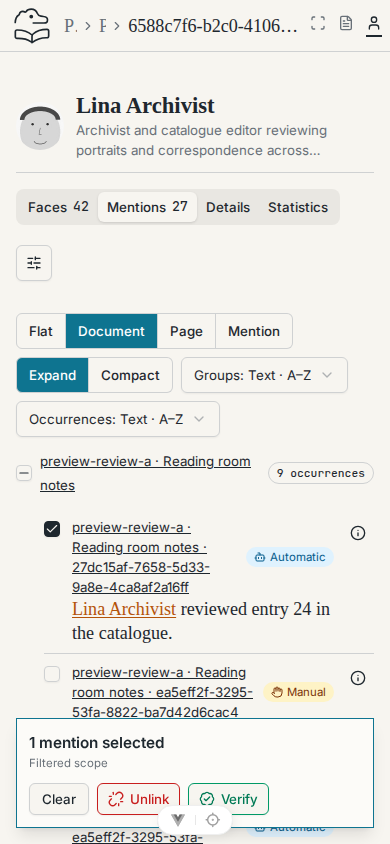
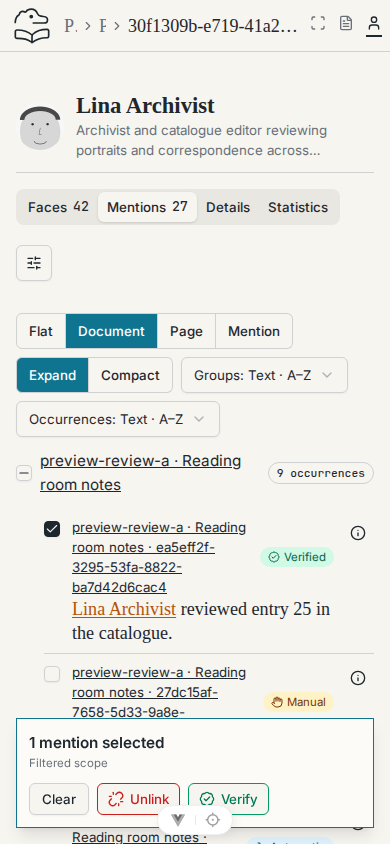
fix: use normal text size for document group links (#80)
The small link looked undersized beside the serif mention context.
Refresh the document view evidence.

diff --git a/people-gator-app/src/components/custom/PersonMentionGroups.vue b/people-gator-app/src/components/custom/PersonMentionGroups.vue
@@ -241,7 +241,7 @@ watch(groups, (items) => {
                   name: 'document-search',
                   query: relatedQuery(route, { document: group.source_id! }),
                 }"
-                class="text-sm underline wrap-anywhere"
+                class="underline wrap-anywhere"
                 :title="`${group.library} · ${group.document_id}`"
                 >{{ group.library }} · {{ group.name }}</RouterLink
               ></span

diff --git a/docs/evidence/issue80/README.md b/docs/evidence/issue80/README.md
@@ -93,7 +93,7 @@ headings show full document and page UUIDs, wrapping without horizontal overflow
 Group Verify now skips occurrences that are already verified, so its count reports
 only changed records. Other mention captures predate the full-UUID labels.
 
-Document view group headings use the occurrence-link style: an underlined
+Document view group headings use the occurrence-link style at normal text size: an underlined
 `library · document name` link that opens the document's scans
 (`/scans?document=…`), without the document UUID. `mentions-document-*` is
 refreshed; the link was followed at both viewport sizes without page errors.
